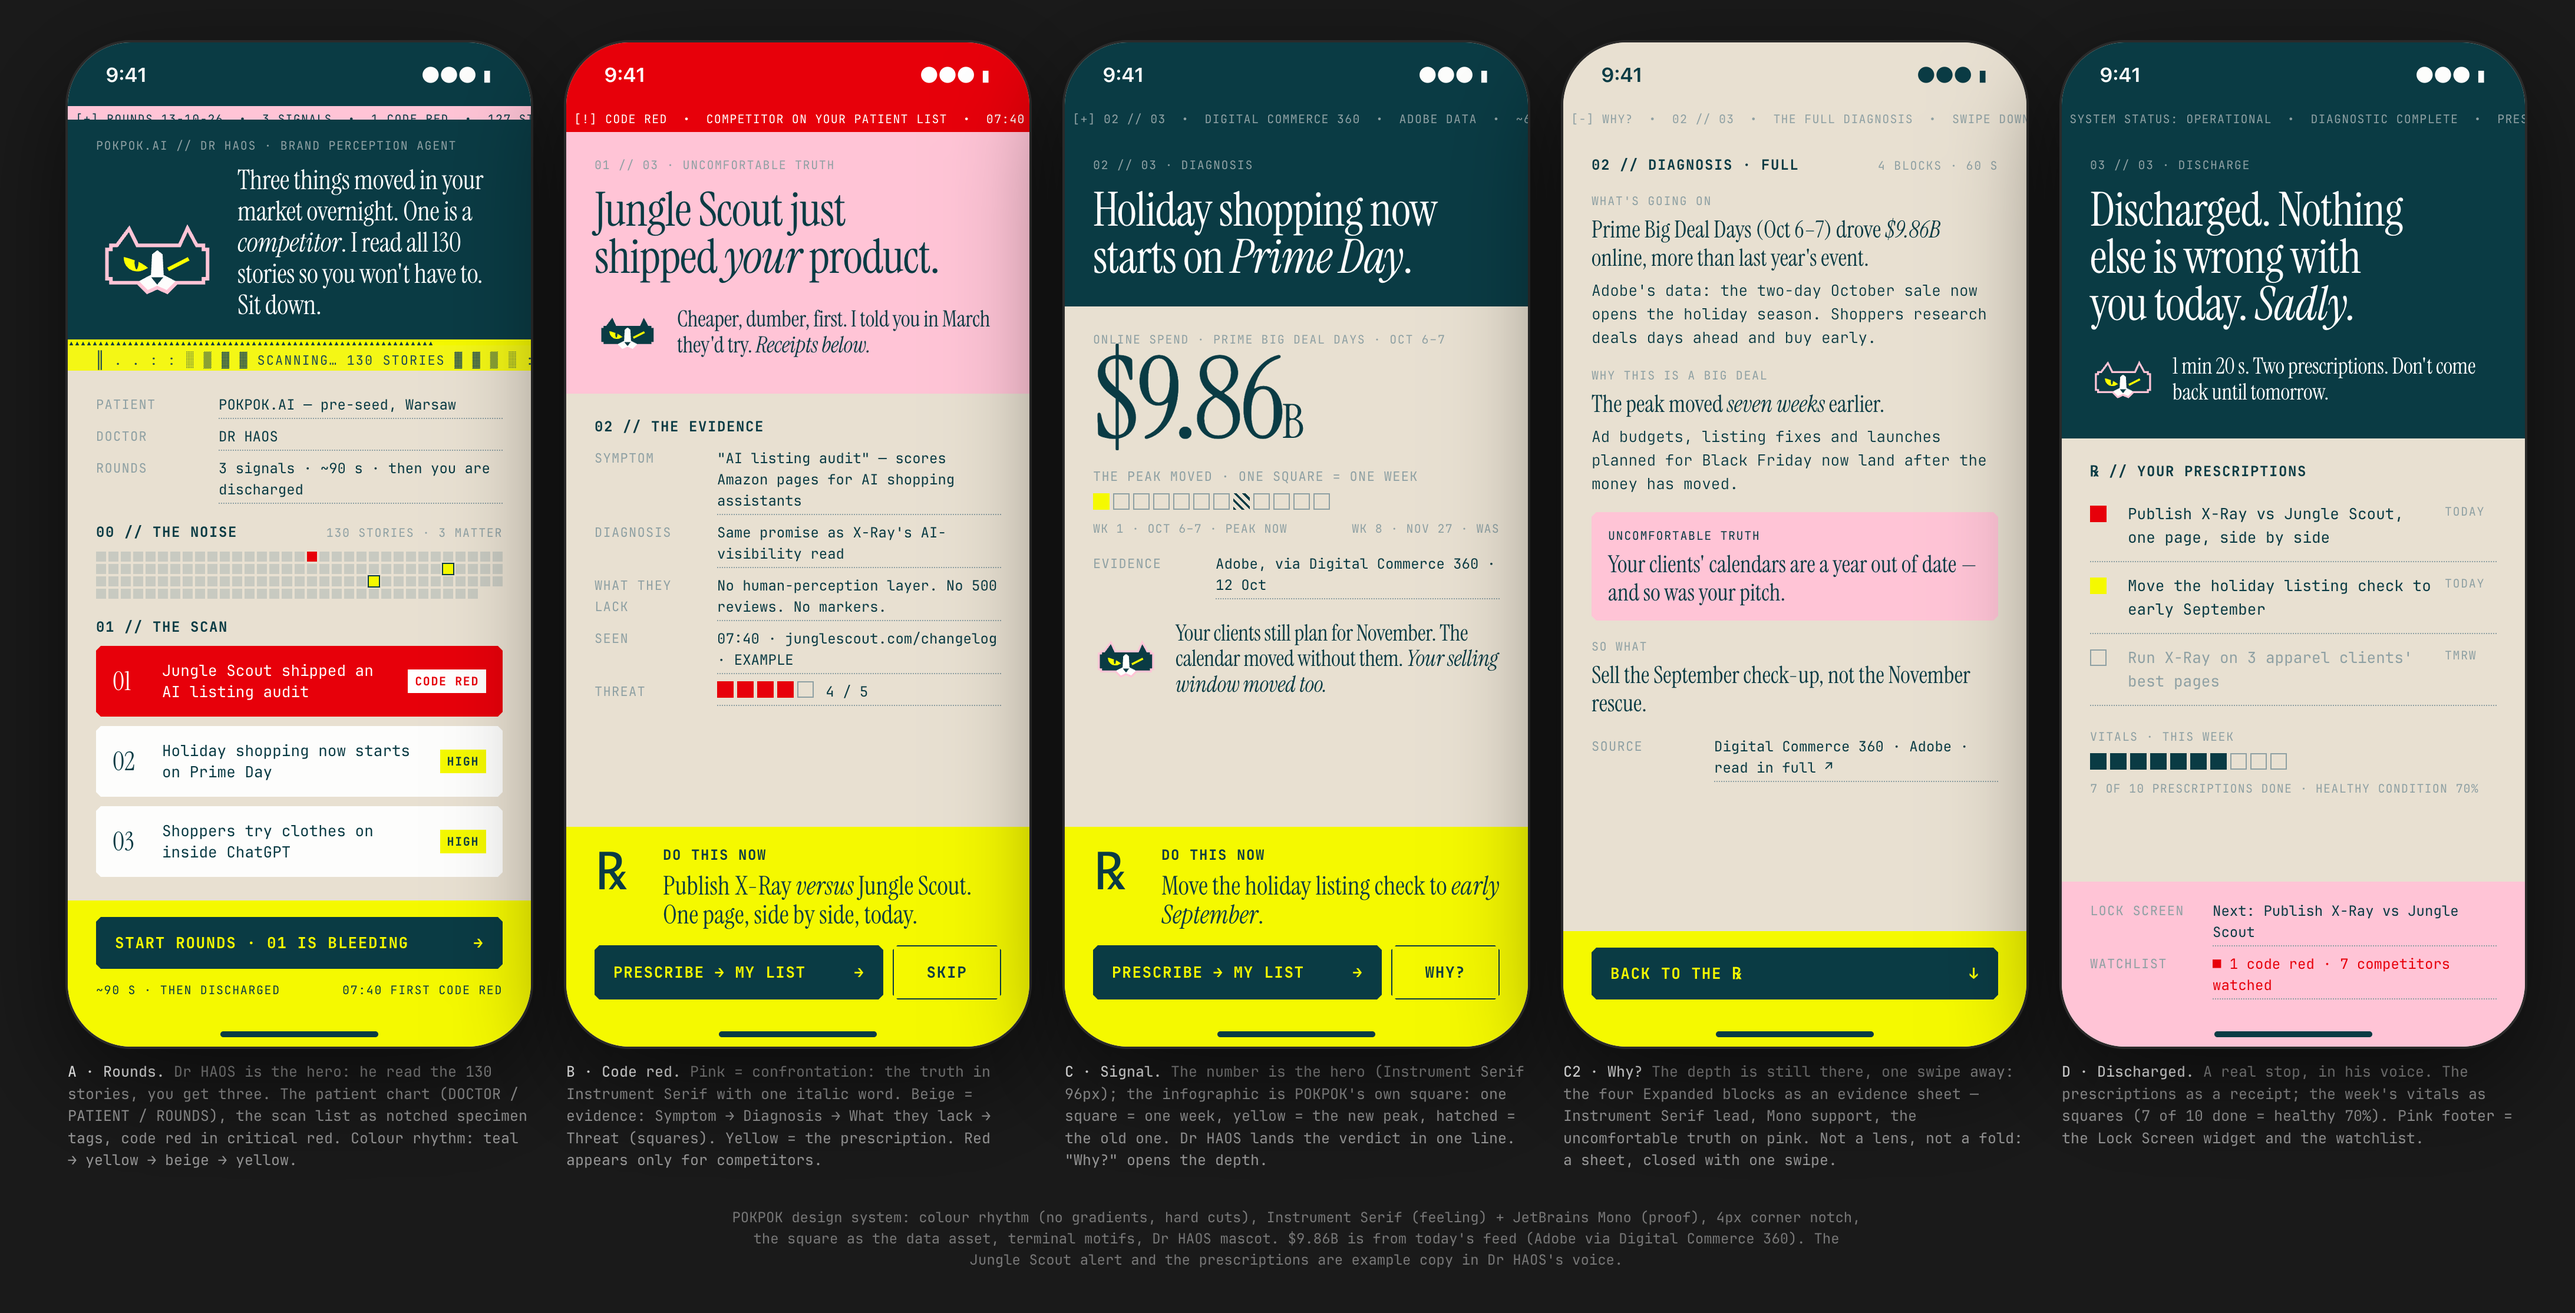
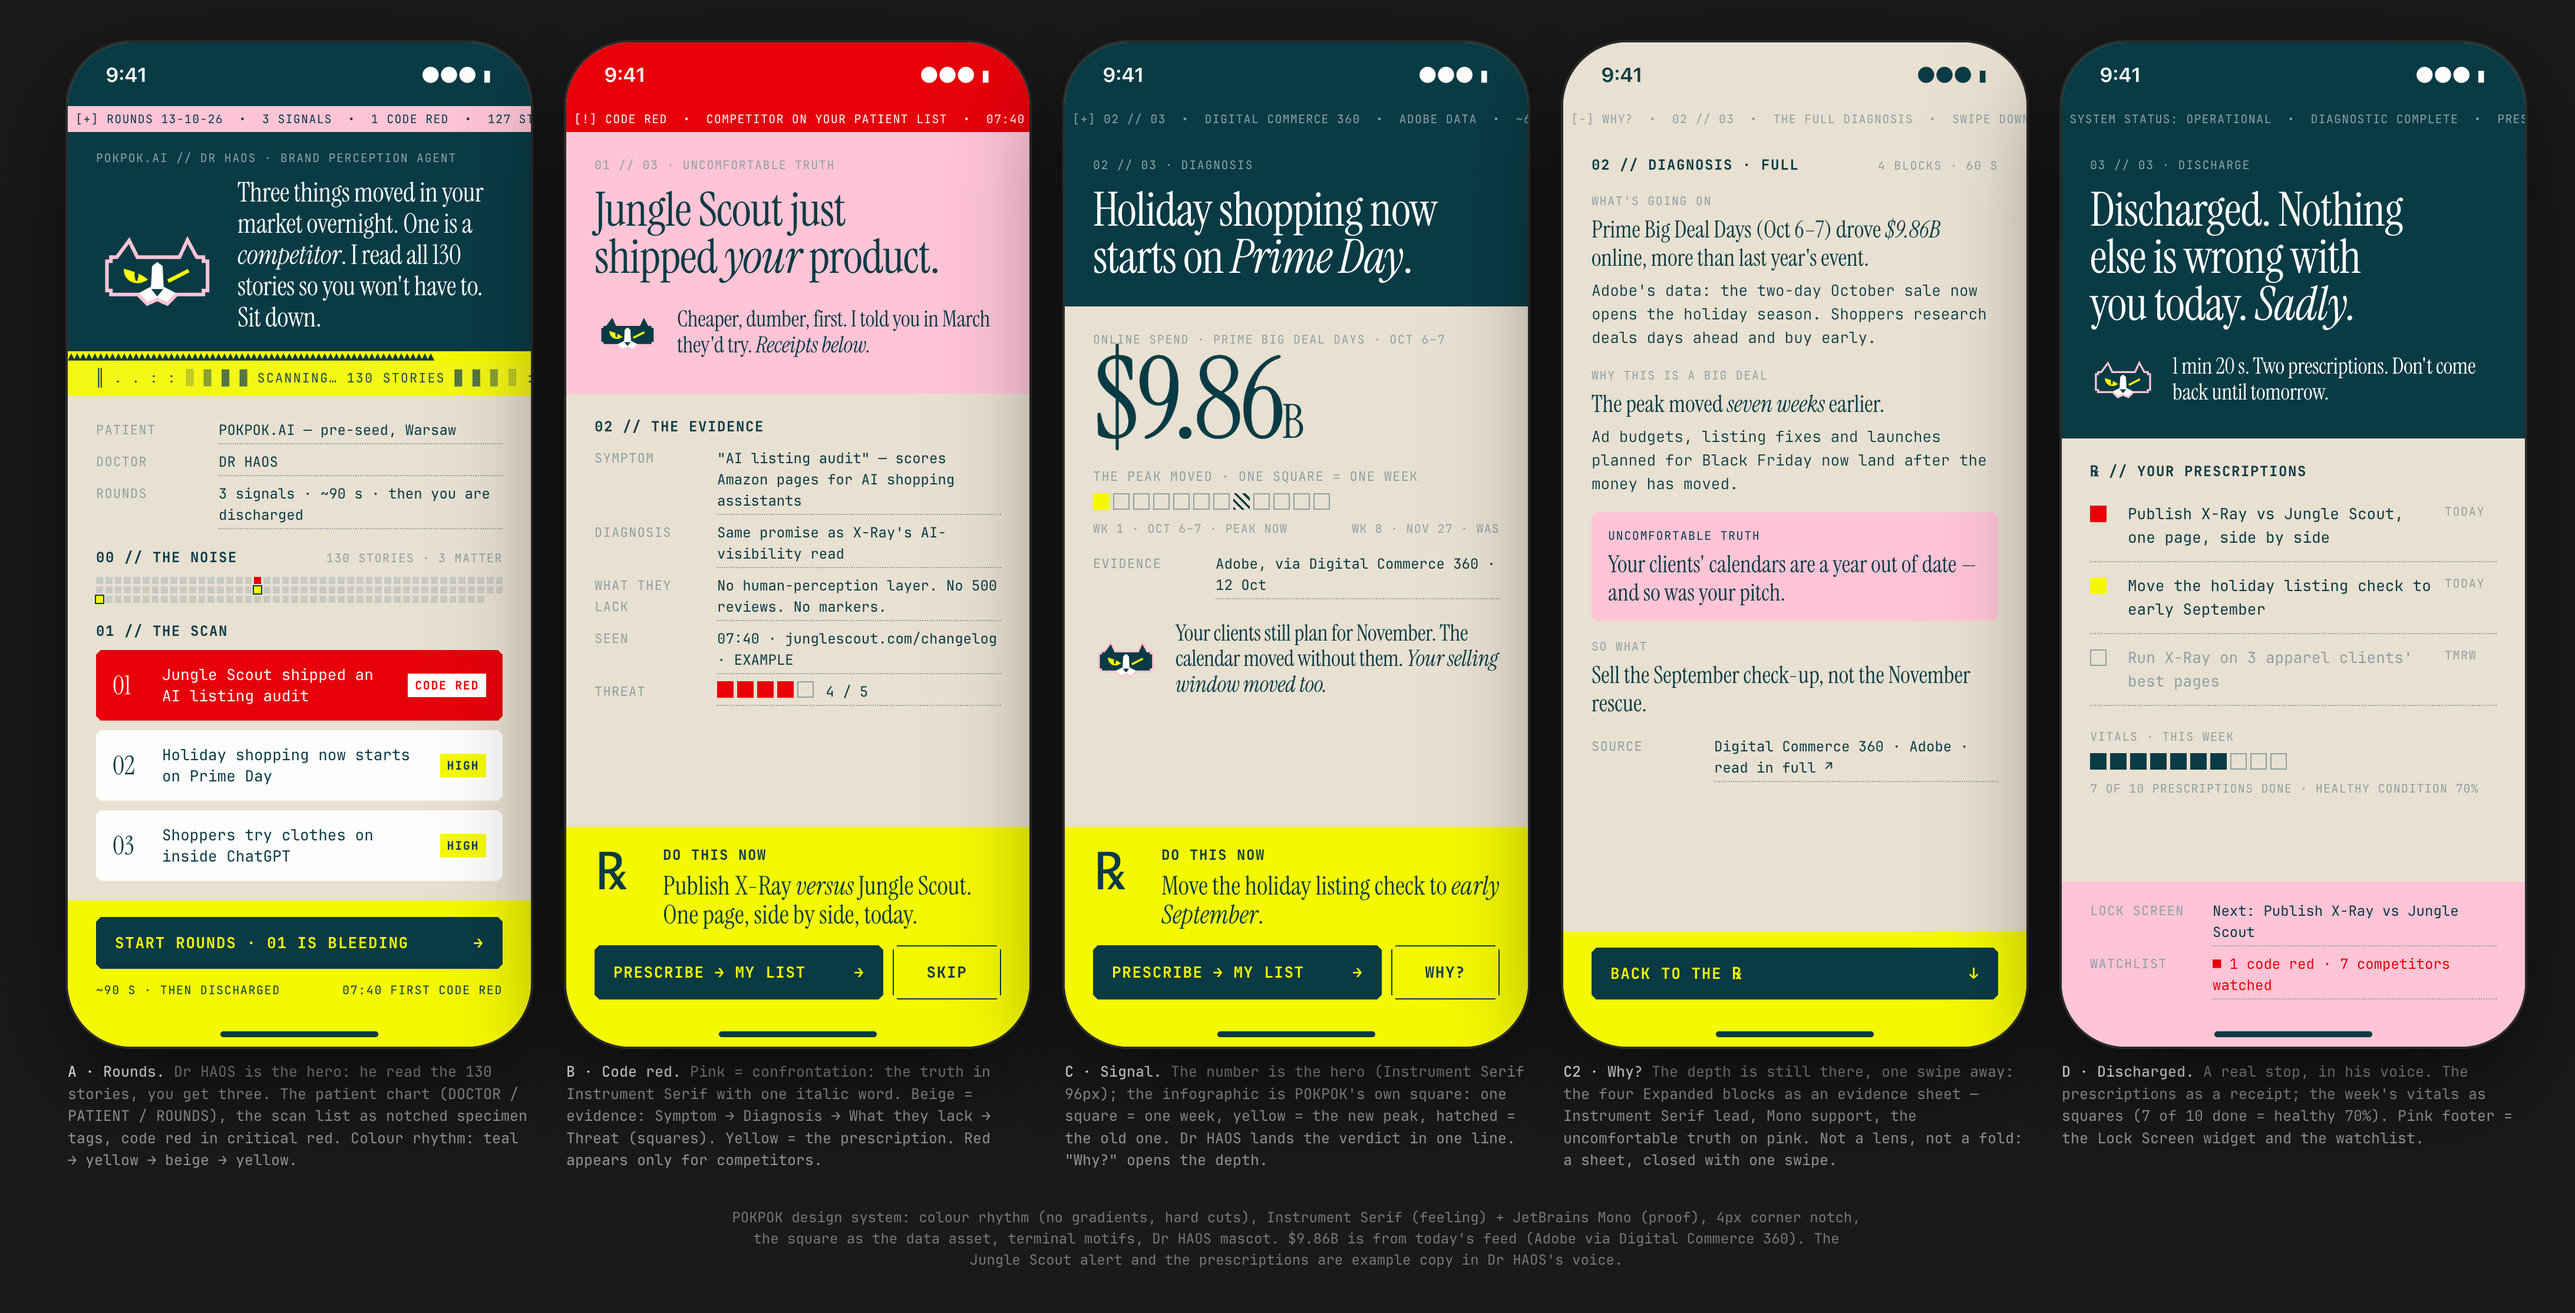
Dr HAOS rounds mockup v2.1: fixed tickers, 3-row noise grid

Changed region(s): [[0.0311, 0.0929, 0.2178, 0.6813]]

diff --git a/docs/redesign/proto/haos.html b/docs/redesign/proto/haos.html
@@ -27,16 +27,17 @@ body { font-family:"JetBrains Mono",monospace; color:var(--teal); padding:36px 2
 .label { font:600 12px/16px "JetBrains Mono"; letter-spacing:.8px; text-transform:uppercase; }
 .label-g { font:400 10px/16px "JetBrains Mono"; letter-spacing:.08em; text-transform:uppercase; color:var(--grey); }
 .serif { font-family:"Instrument Serif"; font-weight:400; }
-.block { padding:20px 24px; }
+.block { padding:20px 24px; flex:none; }
+.block[style*="flex:1"] { flex:1 1 auto; min-height:0; }
 .teal { background:var(--teal); color:var(--card); } .pink { background:var(--pink); color:var(--teal); } .yellow { background:var(--yellow); color:var(--teal); } .beige { background:var(--beige); color:var(--teal); } .white { background:var(--card); color:var(--teal); }
-.ticker { height:22px; overflow:hidden; white-space:nowrap; font:400 10px/22px "JetBrains Mono"; letter-spacing:.06em; text-transform:uppercase; }
-.saw { height:10px; line-height:10px; font-size:10px; letter-spacing:-1px; overflow:hidden; white-space:nowrap; }
+.ticker { flex:none; height:22px; overflow:hidden; white-space:nowrap; font:400 10px/22px "JetBrains Mono"; letter-spacing:.06em; text-transform:uppercase; }
+.saw { flex:none; height:10px; line-height:10px; font-size:10px; letter-spacing:-1px; overflow:hidden; white-space:nowrap; }
 .dither { font:400 11px/14px "JetBrains Mono"; letter-spacing:1px; white-space:nowrap; overflow:hidden; opacity:.9; }
 /* the doctor */
 .doc { display:flex; gap:14px; align-items:flex-start; }
 .doc img { width:84px; height:84px; flex:none; }
 .hero-doc { display:flex; gap:16px; align-items:flex-end; } .hero-doc img { width:104px; height:104px; flex:none; }
-.noise { display:grid; grid-template-columns:repeat(33, 1fr); gap:2px; margin-top:8px; } .noise i { display:block; aspect-ratio:1; background:var(--grey); opacity:.35; } .noise i.on { background:var(--yellow); opacity:1; outline:1px solid var(--teal); } .noise i.red { background:var(--critical); opacity:1; }
+.noise { display:grid; grid-template-columns:repeat(44, 1fr); gap:2px; margin-top:8px; } .noise i { display:block; aspect-ratio:1; background:var(--grey); opacity:.35; } .noise i.on { background:var(--yellow); opacity:1; outline:1px solid var(--teal); } .noise i.red { background:var(--critical); opacity:1; }
 .say { font:400 23px/1.15 "Instrument Serif"; letter-spacing:-.01em; }
 .say i { font-style:italic; }
 .rx { display:flex; gap:14px; align-items:flex-start; }
